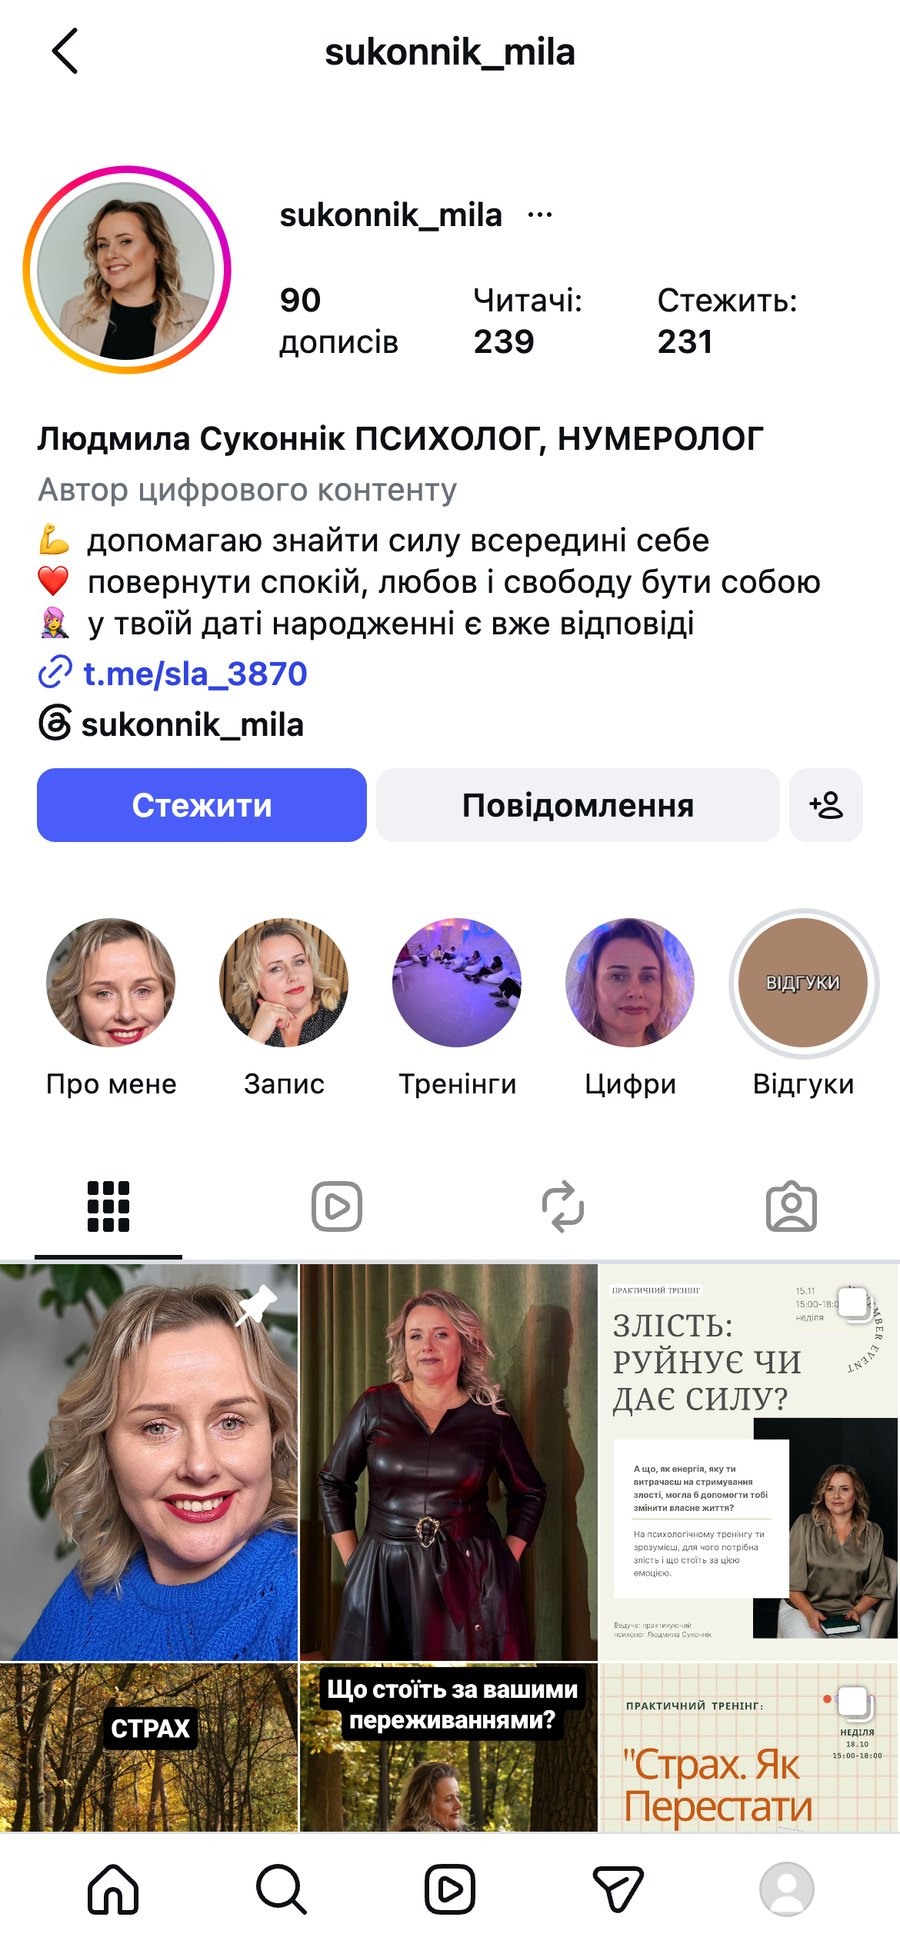
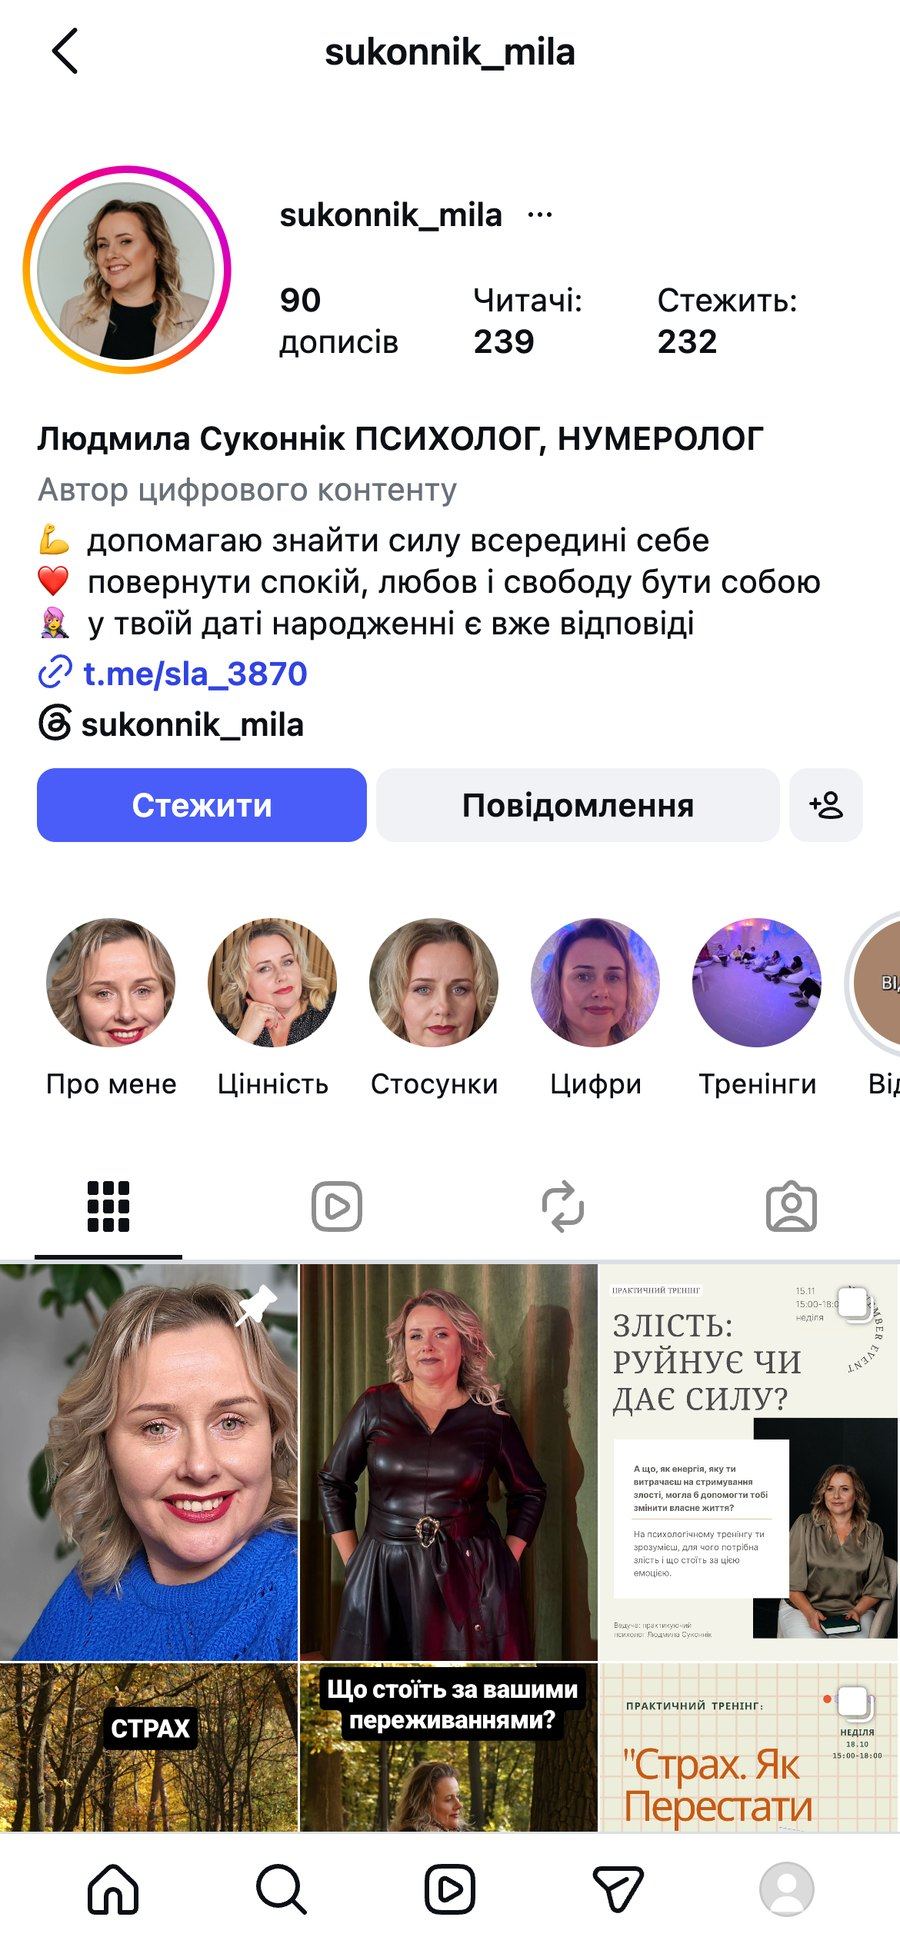
Позиціонування після дзвінка, 3 варіанти ведення

Changed region(s): [[0.2178, 0.4622, 1.0, 0.5855], [0.7778, 0.1541, 0.8089, 0.1849]]

diff --git a/index.html b/index.html
@@ -81,7 +81,22 @@ footer p{margin-bottom:8px}
 }
 
 .cc .src{margin-bottom:2px}
-.pack .closes{margin-top:auto;padding-top:10px}
+.pack{position:relative}
+.pack.main{border:2px solid var(--accent)}
+.badge{position:absolute;top:-13px;left:22px;background:var(--accent);color:#fff;font:700 12px/1 Manrope,sans-serif;letter-spacing:.08em;text-transform:uppercase;padding:7px 12px;border-radius:999px}
+.pack .sub{font-size:12px;letter-spacing:.12em;text-transform:uppercase;color:var(--dim);margin:14px 0 6px}
+.wkline{font-weight:700;font-size:15px;margin-bottom:10px}
+.week{display:grid;grid-template-columns:repeat(7,1fr);gap:4px}
+.day{background:#F4F1EE;border-radius:10px;padding:6px 2px 8px;text-align:center;min-height:62px}
+.day span{display:block;font-size:11px;color:var(--dim);margin-bottom:5px}
+.day div{display:flex;flex-direction:column;align-items:center;gap:3px}
+i.t{display:inline-flex;align-items:center;justify-content:center;width:22px;height:22px;border-radius:50%;font:800 11px/1 Manrope,sans-serif;font-style:normal;color:#fff}
+i.t.r{background:#9A4F2C} i.t.k{background:#5F6B33} i.t.s{background:#C8925F}
+i.t.half{background:#fff!important;color:#5F6B33;border:2px dashed #5F6B33;box-sizing:border-box}
+.legend{display:flex;flex-wrap:wrap;gap:8px 18px;font-size:14px;color:var(--muted);margin:6px 0 26px}
+.legend span{display:inline-flex;align-items:center;gap:6px}
+.pack .gives{font-size:15px;margin-top:12px}
+.pack ul{margin-bottom:6px}
 @media (max-width:900px){.packs{grid-template-columns:1fr}}
 
 /* light-theme-mdv:start */
@@ -133,7 +148,7 @@ a.shot{border-color:#d6d6d6;box-shadow:0 10px 26px rgba(0,0,0,.10)}
         <figure><figcaption class="lab now">Як зараз</figcaption><a class="shot" href="img/prof_before.jpg" target="_blank"><img src="img/c_bio_now.jpg" alt="Як зараз: Шлях до запису в шапці" loading="lazy"></a></figure>
         <figure><figcaption class="lab todo">Як варто</figcaption><a class="shot" href="img/prof_after_bio.jpg" target="_blank"><img src="img/c_bio_should.jpg" alt="Як варто: Шлях до запису в шапці" loading="lazy"></a></figure>
       </div>
-      <p class="note">Зараз немає міста, формату й запису. Варто: Малин і онлайн, ваші теми, один заклик.</p>
+      <p class="note">Зараз немає міста, формату й запису. Варто: психологія з нумерологією, самооцінка й стосунки, один заклик.</p>
     </div>
     <div class="pair" id="p02">
       <div class="phead"><span class="num">02</span><h3>Малин в імені профілю</h3></div>
@@ -181,7 +196,7 @@ a.shot{border-color:#d6d6d6;box-shadow:0 10px 26px rgba(0,0,0,.10)}
         <figure><figcaption class="lab now">Як зараз</figcaption><a class="shot" href="img/prof_before.jpg" target="_blank"><img src="img/c_hl_now.jpg" alt="Як зараз: Хайлайти по шляху клієнтки" loading="lazy"></a></figure>
         <figure><figcaption class="lab todo">Як варто</figcaption><a class="shot" href="img/prof_after_hl.jpg" target="_blank"><img src="img/c_hl_should.jpg" alt="Як варто: Хайлайти по шляху клієнтки" loading="lazy"></a></figure>
       </div>
-      <p class="note">Зараз один хайлайт. Варто: Про мене, Запис, Тренінги, Цифри, Відгуки.</p>
+      <p class="note">Зараз один хайлайт. Варто: Про мене, Цінність, Стосунки, Цифри, Тренінги, Відгуки.</p>
     </div>
     <div class="pair" id="p08">
       <div class="phead"><span class="num">08</span><h3>Стрічка з вашим обличчям</h3></div>
@@ -255,7 +270,7 @@ a.shot{border-color:#d6d6d6;box-shadow:0 10px 26px rgba(0,0,0,.10)}
         <p>Хайлайти за запитами: «Страхи», «Сором», «Безпека».</p>
       </div>
     </div>
-    <div class="callout">Спільне: місто й формат у шапці, запис одним дотиком, хайлайти «Консультації» й «Відгуки».</div>
+    <div class="callout">Спільне: місто й формат у шапці, запис одним дотиком, хайлайти за запитами. Для дівчат і жінок 18–30 це «Самооцінка» і «Стосунки».</div>
   </div>
 </section>
 
@@ -263,7 +278,7 @@ a.shot{border-color:#d6d6d6;box-shadow:0 10px 26px rgba(0,0,0,.10)}
   <div class="wrap">
     <h2>Чого чекати за 1–3 місяці</h2>
     <div class="plan">
-      <div><b>Місяць 1</b>Нова шапка, хайлайти, закріплені. Перша зйомка.</div>
+      <div><b>Місяць 1</b>Упаковка профілю, стиль стрічки, перша зйомка.</div>
       <div><b>Місяць 2</b>Дивлюсь, які теми дають звернення, і пишу нові під них.</div>
       <div><b>Місяць 3</b>Стабільний ритм і ваша власна статистика.</div>
     </div>
@@ -274,48 +289,58 @@ a.shot{border-color:#d6d6d6;box-shadow:0 10px 26px rgba(0,0,0,.10)}
 <section>
   <div class="wrap">
     <h2>Що пропоную</h2>
+    <p class="lead" style="margin-bottom:8px">Три обсяги щомісячного ведення. Перший місяць у кожному включає упаковку профілю: позиціонування (психологія + нумерологія), шапку, 3 закріплені, 5–6 хайлайтів з ваших кадрів і шаблони Canva у вашому стилі.</p>
+    <div class="legend"><span><i class="t r">Р</i>рілс</span><span><i class="t k">К</i>карусель</span><span><i class="t s">С</i>сторітел, 3–5 сторіс</span><span><i class="t k half">К</i>раз на 2 тижні</span></div>
     <div class="packs">
       <div class="pack">
-        <h3>Упаковка і стиль</h3>
-        <div class="price">5 000 грн</div>
-        <div class="per">разово</div>
-        <ul>
-          <li>Шапка й опис у Telegram</li>
-          <li>3 закріплені, 5 хайлайтів з обкладинками</li>
-          <li>10 шаблонів Canva у ваших кольорах для анонсів, дописів і сторіз</li>
-        </ul>
-        <div class="closes">Пункти 01–08.</div>
-      </div>
-      <div class="pack">
-        <h3>Рілси</h3>
-        <div class="price">4 000 грн</div>
+        
+        <h3>Легкий</h3>
+        <div class="price">8 000 грн</div>
         <div class="per">на місяць</div>
-        <ul>
-          <li>4 розмовні рілси: теми й текст для суфлера</li>
-          <li>Зйомка до 1 год на місяць</li>
-          <li>Монтаж із субтитрами, обкладинки, підписи із закликом</li>
-        </ul>
-        <div class="closes">Пункти 09–10.</div>
+        <div class="sub">На тиждень</div>
+        <div class="wkline">1 рілс · 1 сторітел · карусель раз на 2 тижні</div>
+        <div class="week"><div class="day"><span>Пн</span><div><i class="t r">Р</i></div></div><div class="day"><span>Вт</span><div></div></div><div class="day"><span>Ср</span><div><i class="t k half">К</i></div></div><div class="day"><span>Чт</span><div><i class="t s">С</i></div></div><div class="day"><span>Пт</span><div></div></div><div class="day"><span>Сб</span><div></div></div><div class="day"><span>Нд</span><div></div></div></div>
+        <div class="sub">На місяць</div>
+        <ul><li>4 рілси, 2 каруселі, 4 сторітели</li><li>Рілси дублюємо в TikTok</li><li>Контент-план, анонс кожного тренінгу</li><li>Звіт раз на місяць</li></ul>
+        <div class="time"><b>Ваш час на місяць:</b> 1 зйомка до 1 год (4 теми з готовим текстом суфлера) і до 15 хв на тиждень на погодження.</div>
+        <div class="gives"><b>Що це дає:</b> Стабільна присутність без провалів (у вересні було 0 дописів), ваше обличчя й голос у стрічці щотижня.</div>
       </div>
       <div class="pack main">
-        <h3>Повне ведення</h3>
+        <div class="badge">Рекомендую</div>
+        <h3>Золотий</h3>
         <div class="price">15 000 грн</div>
         <div class="per">на місяць</div>
-        <ul>
-          <li>8 рілсів, 4 каруселі, 8 сторітелів</li>
-          <li>План, скрипт відповідей у Direct</li>
-          <li>Звіт щомісяця</li>
-        </ul>
-        <div class="closes">Пункти 08–11.</div>
+        <div class="sub">На тиждень</div>
+        <div class="wkline">2 рілси · 1 карусель · 2 сторітели</div>
+        <div class="week"><div class="day"><span>Пн</span><div><i class="t r">Р</i></div></div><div class="day"><span>Вт</span><div><i class="t s">С</i></div></div><div class="day"><span>Ср</span><div><i class="t k">К</i></div></div><div class="day"><span>Чт</span><div></div></div><div class="day"><span>Пт</span><div><i class="t r">Р</i></div></div><div class="day"><span>Сб</span><div><i class="t s">С</i></div></div><div class="day"><span>Нд</span><div></div></div></div>
+        <div class="sub">На місяць</div>
+        <ul><li>8 рілсів (+ TikTok), 4 каруселі, 8 сторітелів</li><li>Контент-план і рубрики для дівчат і жінок 18–30</li><li>Скрипт відповідей у Direct: консультація, нумерологічний розбір, тренінг</li><li>Прогрів до кожного тренінгу: сторітел і рілс за тиждень до події</li><li>Опис і закріп у Telegram</li><li>Звіт і розбір щомісяця</li></ul>
+        <div class="time"><b>Ваш час на місяць:</b> 2 зйомки до 1,5 год і до 15 хв на тиждень.</div>
+        <div class="gives"><b>Що це дає:</b> Ритм 3 публікації на тиждень плюс сторіс. Тренінги продаються з вашого акаунта, Direct стає зрозумілим шляхом до запису.</div>
       </div>
+      <div class="pack">
+        
+        <h3>Максимум</h3>
+        <div class="price">22 000 грн</div>
+        <div class="per">на місяць</div>
+        <div class="sub">На тиждень</div>
+        <div class="wkline">3 рілси · 1–2 каруселі · 3 сторітели</div>
+        <div class="week"><div class="day"><span>Пн</span><div><i class="t r">Р</i></div></div><div class="day"><span>Вт</span><div><i class="t k">К</i><i class="t s">С</i></div></div><div class="day"><span>Ср</span><div><i class="t r">Р</i></div></div><div class="day"><span>Чт</span><div><i class="t k half">К</i><i class="t s">С</i></div></div><div class="day"><span>Пт</span><div><i class="t r">Р</i></div></div><div class="day"><span>Сб</span><div></div></div><div class="day"><span>Нд</span><div><i class="t s">С</i></div></div></div>
+        <div class="sub">На місяць</div>
+        <ul><li>12 рілсів (+ TikTok), 6 каруселей, 12 сторітелів</li><li>Усе із «Золотого»</li><li>Дзвінок 30 хв щомісяця за результатами</li><li>Реклама в Instagram на тренінги в Малині: налаштування і креативи з рілсів, що вже зайшли. Бюджет окремо, оплачується напряму Meta</li></ul>
+        <div class="time"><b>Ваш час на місяць:</b> 3 зйомки до 1,5 год.</div>
+        <div class="gives"><b>Що це дає:</b> Найшвидший набір нових людей: органіка плюс реклама на тренінги.</div>
+      </div>
+
     </div>
+    <div class="callout"><b>Що міряємо щомісяця:</b> перегляди рілсів, нові читачі, звернення в Direct і Telegram, записи на тренінги й консультації. Орієнтир, не гарантія: у колег з карток вище (@nataliia_tsyganenko_psy, @psy_iryna_belke) медіана рілса 728 і 1 632 перегляди, у вас зараз 305.</div>
   </div>
 </section>
 
 <section>
   <div class="wrap">
     <h2>Наступний крок</h2>
-    <p class="lead">На дзвінку покажу план першого місяця і 4 теми для зйомки.</p>
+    <p class="lead">Після ваших прикладів візуалу зроблю 2–3 варіанти стилю стрічки на вибір. Далі план першого місяця і 4 теми для зйомки.</p>
   </div>
 </section>
 
